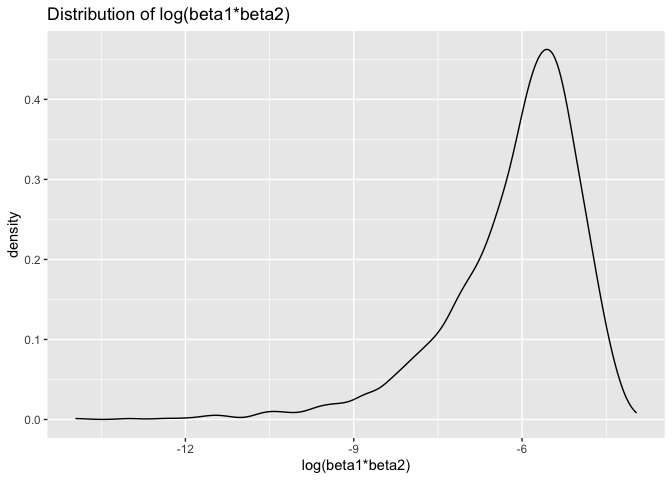
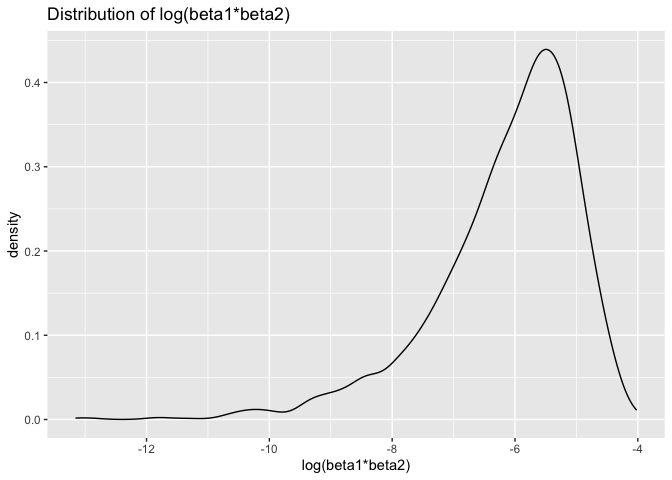
update problem2

diff --git a/p8105_hw6_qh2284.md b/p8105_hw6_qh2284.md
@@ -264,17 +264,35 @@ head(res)
     ## # A tibble: 6 × 2
     ##   r.squared log_beta12
     ##       <dbl>      <dbl>
-    ## 1     0.913      -7.92
-    ## 2     0.933     NaN   
-    ## 3     0.922     NaN   
-    ## 4     0.927     NaN   
-    ## 5     0.920     NaN   
-    ## 6     0.925     NaN
+    ## 1     0.903      -5.16
+    ## 2     0.910      -5.74
+    ## 3     0.916     NaN   
+    ## 4     0.921      -7.54
+    ## 5     0.930     NaN   
+    ## 6     0.911      -6.92
+
+``` r
+head(res_noNA)
+```
+
+    ## # A tibble: 6 × 2
+    ##   r.squared log_beta12
+    ##       <dbl>      <dbl>
+    ## 1     0.903      -5.16
+    ## 2     0.910      -5.74
+    ## 3     0.921      -7.54
+    ## 4     0.911      -6.92
+    ## 5     0.918      -5.64
+    ## 6     0.912      -5.59
 
 ``` r
 # calculate CI for r-squared and log
 r2_ci = 
   quantile(pull(res,r.squared), probs = c(0.025,0.975)) %>% 
+  knitr::kable()
+
+r2_ci_noNA = 
+  quantile(pull(res_noNA,r.squared), probs = c(0.025,0.975)) %>% 
   knitr::kable()
 
 log_ci = 
@@ -286,8 +304,17 @@ r2_ci
 
 |       |         x |
 |:------|----------:|
-| 2.5%  | 0.8883467 |
-| 97.5% | 0.9407047 |
+| 2.5%  | 0.8898172 |
+| 97.5% | 0.9403597 |
+
+``` r
+r2_ci_noNA
+```
+
+|       |         x |
+|:------|----------:|
+| 2.5%  | 0.8827325 |
+| 97.5% | 0.9267254 |
 
 ``` r
 log_ci
@@ -295,8 +322,8 @@ log_ci
 
 |       |         x |
 |:------|----------:|
-| 2.5%  | -9.207000 |
-| 97.5% | -4.535707 |
+| 2.5%  | -9.123563 |
+| 97.5% | -4.541181 |
 
 ``` r
 r2_dist = res %>%
